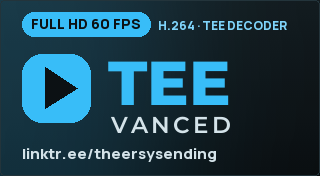
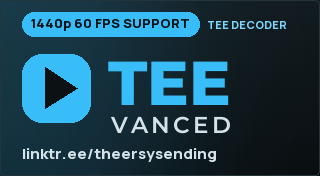
XMB artwork: 1440p 60 FPS SUPPORT and TEE DECODER as the claim (TEE's wording)
Drawn on the v2.0.0 files where the old claim was (background regenerated there by the v2.0.0
generator's own functions), then recoloured blue; banner cut from the new background.

Changed region(s): [[0.0938, 0.0568, 0.9062, 0.2273]]

diff --git a/tools/make-branding.py b/tools/make-branding.py
@@ -12,8 +12,8 @@ tools/recolor-branding.py, which turned the shipped files blue - Montserrat is n
 The XMB draws the game's title and its own chrome over the LEFT half of PIC1, so everything that has to stay
 readable lives on the right.
 
-Since v2.0.0 both also say what the TEE Decoder brings (FULL HD 60 FPS, H.264) and carry the linktree where it is
-seen - on the tile, and as a plate under the claim on the background (it used to be a faint line in a corner).
+Since v2.0.0 both also say what TEE's decoders bring (V3.0.0: 1440p 60 FPS SUPPORT, TEE DECODER; v2.0.0 said FULL HD
+60 FPS, H.264) and carry the linktree where it is seen - on the tile, and as a plate under the claim on the background (it used to be a faint line in a corner).
 That text is Manrope, the app's own font, read straight from the bytes the app embeds - no installed font needed
 for it; the wordmark stays Montserrat.
 """
@@ -70,8 +70,8 @@ def pill(draw, x, y, text, fnt, fill, ink, pad_x, height, outline=None, width=0)
 def draw_icon_extras(img):
     """The tile's claim across the top, and the linktree under the wordmark."""
     d = ImageDraw.Draw(img)
-    end = pill(d, 22, 12, "FULL HD 60 FPS", manrope("extrabold", 14), BRAND, INK, 9, 24)
-    d.text((end + 8, 17), "H.264 · TEE DECODER", font=manrope("extrabold", 12), fill=LIGHT)
+    end = pill(d, 22, 12, "1440p 60 FPS SUPPORT", manrope("extrabold", 13), BRAND, INK, 9, 24)
+    d.text((end + 8, 17), "TEE DECODER", font=manrope("extrabold", 11), fill=LIGHT)
     d.text((22, 143), LINKTREE, font=manrope("extrabold", 15), fill=CREAM)
 
 
@@ -79,8 +79,8 @@ def draw_background_extras(img):
     """Under the background's subtitle: the claim, and the linktree as a plate that can be seen from the sofa."""
     d = ImageDraw.Draw(img)
     x = 1306
-    pill(d, x, 690, "FULL HD 60 FPS", manrope("extrabold", 34), BRAND, INK, 26, 64)
-    d.text((x, 778), "H.264 SUPPORT · TEE DECODER", font=manrope("extrabold", 34), fill=LIGHT)
+    pill(d, x, 690, "1440p 60 FPS SUPPORT", manrope("extrabold", 34), BRAND, INK, 26, 64)
+    d.text((x, 778), "TEE DECODER", font=manrope("extrabold", 34), fill=LIGHT)
     d.text((x, 880), "Updates & more from TEE:", font=manrope("semibold", 24), fill=MUTED)
     pill(d, x, 922, LINKTREE, manrope("extrabold", 34), (34, 26, 16), CREAM, 26, 64, outline=BRAND, width=3)
 
